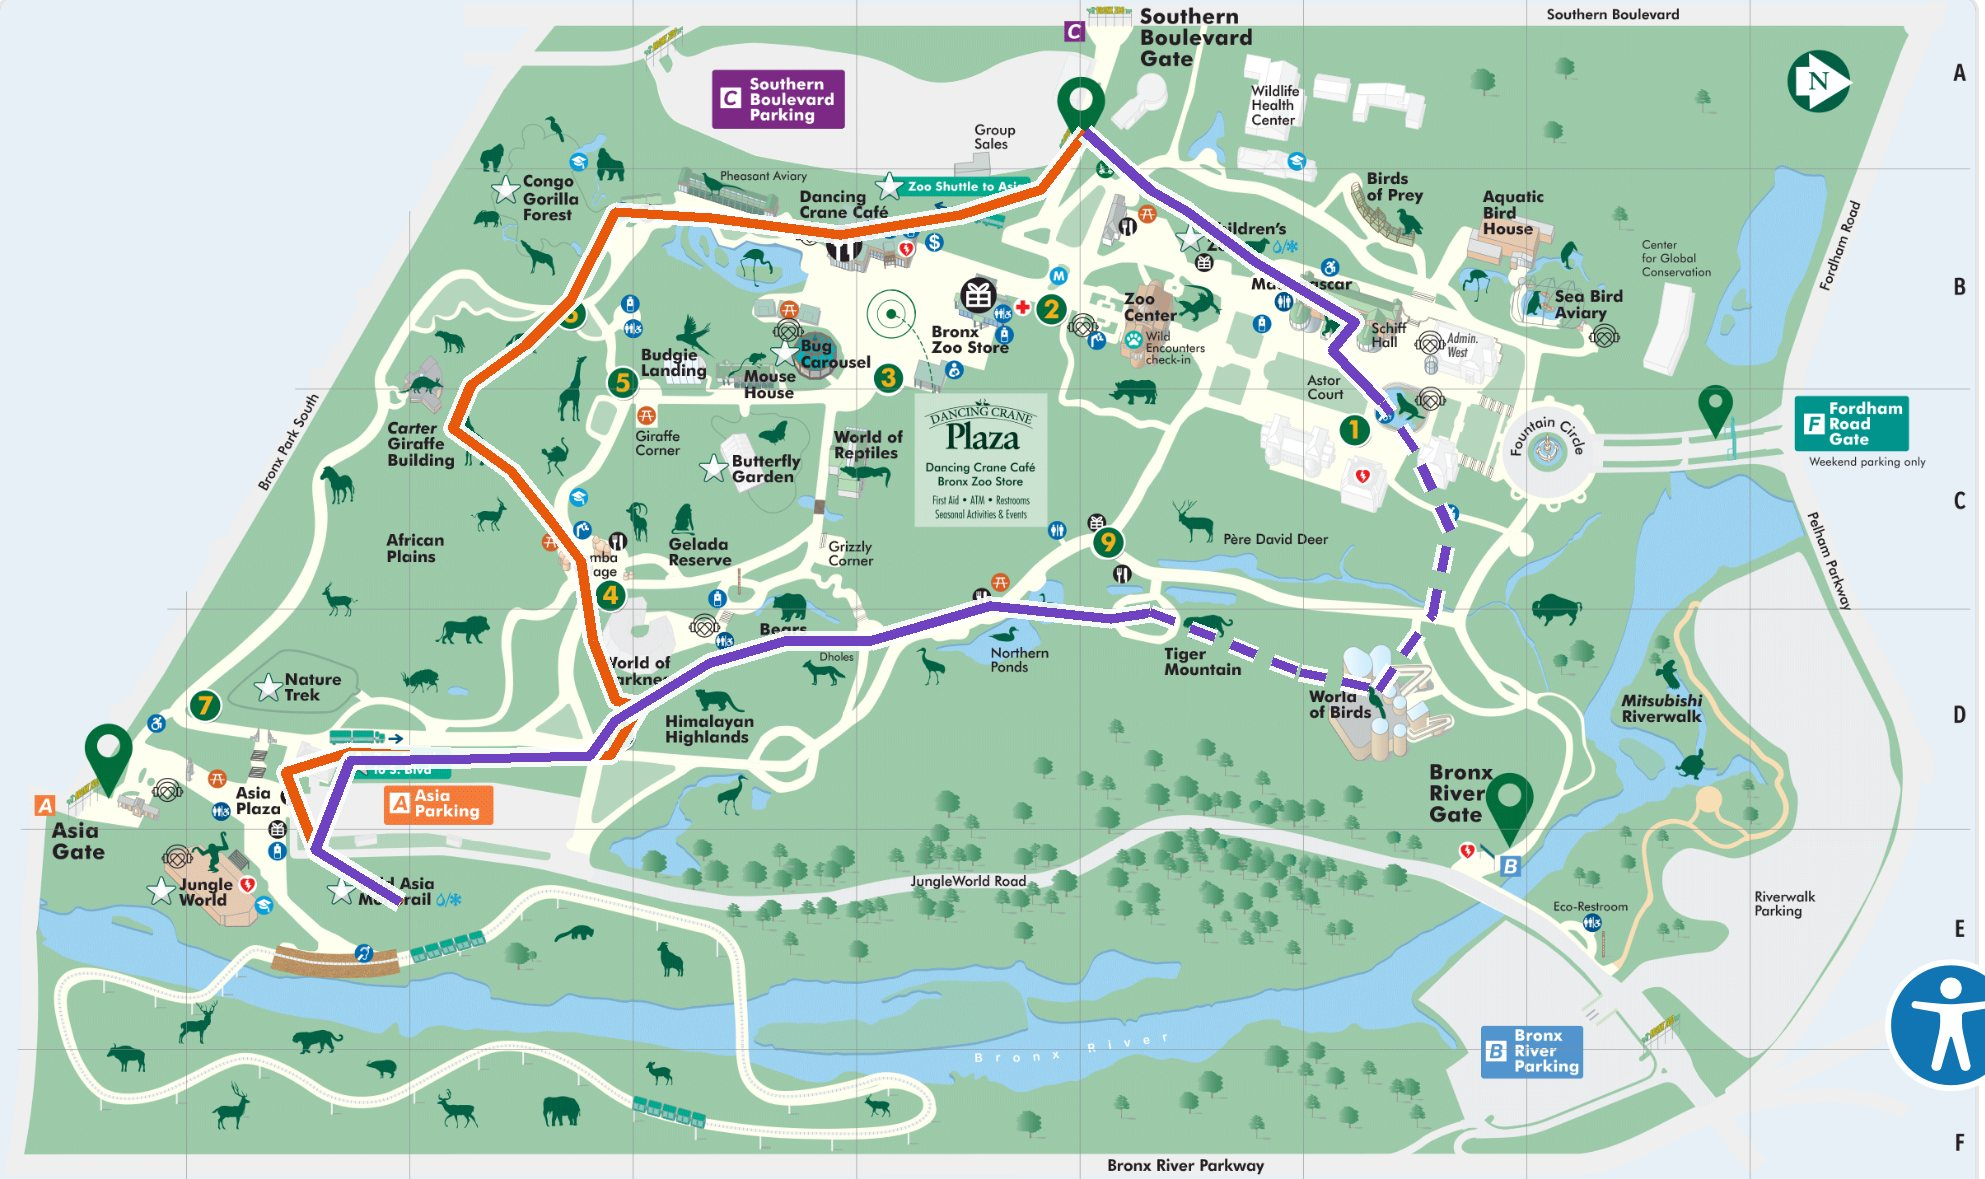
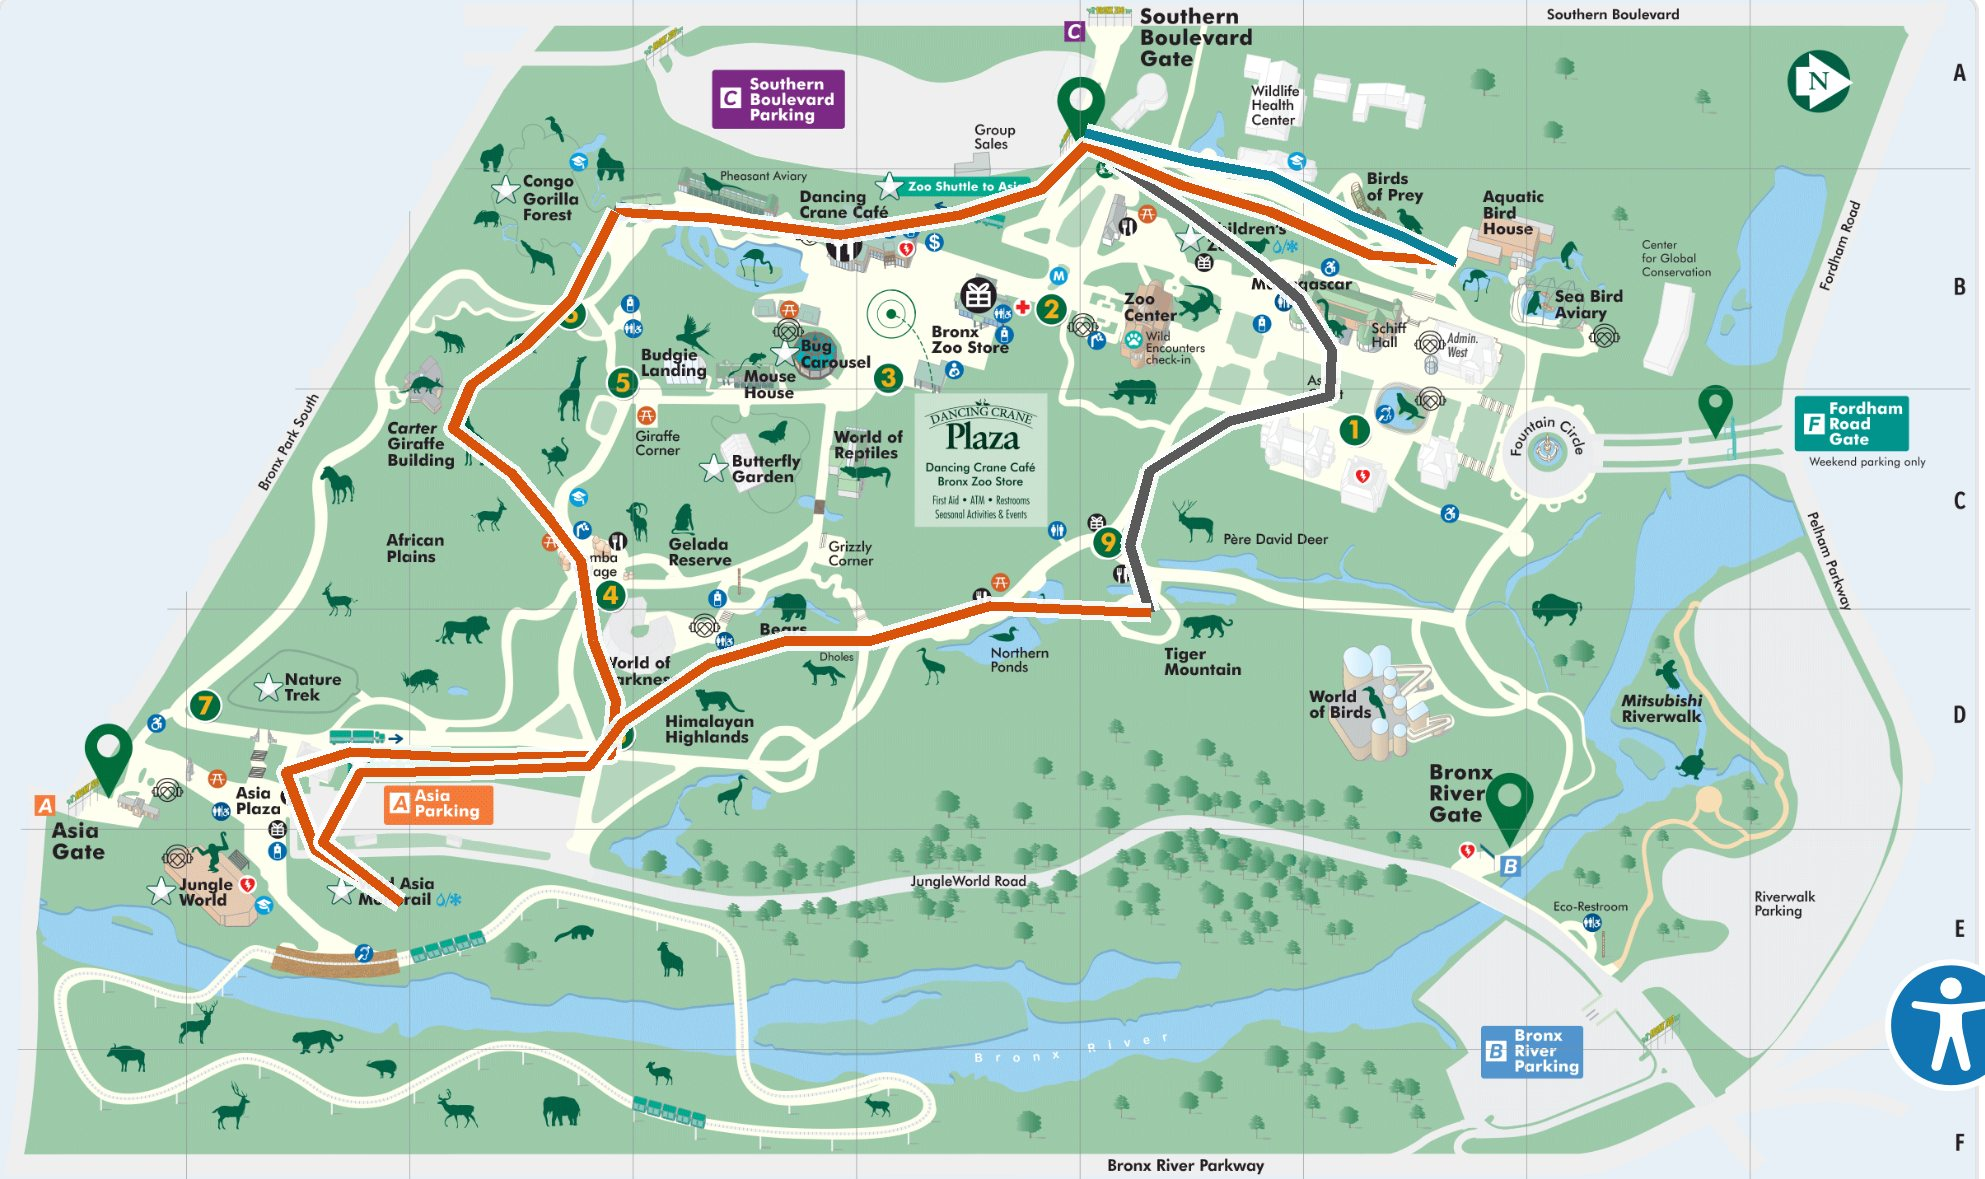
Add monorail and Boo at the Zoo schedule

diff --git a/index.html b/index.html
@@ -50,7 +50,7 @@ h2{font-size:20px;font-weight:600}
 .map{position:relative;width:100%;min-width:900px;aspect-ratio:1985/1179;background:#cfe3d3}
 .map img{position:absolute;inset:0;width:100%;height:100%;display:block;max-width:none}
 .pin{position:absolute;transform:translate(-50%,-50%);width:34px;height:34px;border-radius:50%;border:3px solid #fff;color:#fff;font:700 15px/1 "Atkinson Hyperlegible",system-ui,sans-serif;display:grid;place-items:center;cursor:pointer;box-shadow:0 1px 3px rgba(0,0,0,.35);transition:transform .15s ease}
-.pin.am{background:#D9530B}.pin.pm{background:#6F42C1}.pin.gate{background:#2A2F2C}
+.pin.am{background:#D9530B}.pin.pm,.pin.lunch{background:#6F42C1}.pin.bird{background:#0D809A}.pin.gate{background:#2A2F2C}
 .pin.done{opacity:.45}
 .pin:hover{transform:translate(-50%,-50%) scale(1.12)}
 .pin.active{transform:translate(-50%,-50%) scale(1.3);box-shadow:0 0 0 4px rgba(255,255,255,.9),0 0 0 7px #1F7AE0;z-index:2}
@@ -63,13 +63,14 @@ h2{font-size:20px;font-weight:600}
 .stop.active{border-color:var(--focus);box-shadow:0 0 0 2px var(--focus)}
 .stop.done .body{opacity:.55}
 .num{width:36px;height:36px;border-radius:50%;display:grid;place-items:center;color:#fff;font-weight:700;margin-top:2px}
-.num.am{background:#D9530B}.num.pm{background:#6F42C1}.num.gate{background:#2A2F2C}
+.num.am{background:#D9530B}.num.pm,.num.lunch{background:#6F42C1}.num.bird{background:#0D809A}.num.gate{background:#2A2F2C}
 .top{display:flex;flex-wrap:wrap;align-items:baseline;gap:4px 10px}
 .time{font-variant-numeric:tabular-nums;font-weight:700;color:var(--green)}
 .name{font-weight:700;font-size:17px}
 .tag{font-size:12px;letter-spacing:.04em;text-transform:uppercase;border-radius:6px;padding:2px 7px;background:var(--chip);color:var(--muted)}
 .tag.star{background:var(--starbg);color:var(--star)}
 .tag.opt{border:1px dashed var(--muted);background:none}
+.tag.bird{background:#DDF1F5;color:#0B6477}
 .note{margin:4px 0 0;color:var(--ink)}
 .tip{margin:4px 0 0;color:var(--muted);font-size:14px}
 .actions{display:flex;flex-wrap:wrap;gap:8px 14px;margin-top:8px;font-size:14px}
@@ -93,9 +94,9 @@ h2{font-size:20px;font-weight:600}
 <div class="wrap">
   <header>
     <h1>Bronx Zoo route, Saturday Oct 3</h1>
-    <p class="sub">One loop from the Southern Boulevard gate: big animals in the morning, picnic and monorail at midday, a stroller-nap stroll past the tigers, then Boo at the Zoo fun on the way out. Tap any pin or stop.</p>
+    <p class="sub">Birds for Kaia first while she's fresh, then gorillas, giraffes and lions, a picnic at Asia Plaza, the Wild Asia Monorail, and tigers on the nap walk back to the gate. Tap any pin or stop.</p>
     <div class="meta">
-      <span class="pill"><b>Open</b> 10:00 to 5:30 (exhibits close 5:00)</span>
+      <span class="pill"><b>Our visit</b> 10:00 to about 2:25</span>
       <span class="pill"><b>Park</b> Southern Blvd lot, $22</span>
       <span class="pill"><b>Group</b> 10 adults, 3 toddlers</span>
     </div>
@@ -104,15 +105,15 @@ h2{font-size:20px;font-weight:600}
   <section class="mapcard" aria-label="Route on the zoo map">
     <div class="maphead">
       <div class="legend">
-        <span><i class="sw" style="background:var(--am)"></i>Morning</span>
-        <span><i class="sw" style="background:var(--pm)"></i>Nap + afternoon</span>
-        <span><i class="sw dash"></i>Optional</span>
+        <span><i class="sw" style="background:#0D809A"></i>Birds for Kaia</span>
+        <span><i class="sw" style="background:#D9530B"></i>Big animals</span>
+        <span><i class="sw" style="background:#5A5A5A"></i>Nap walk out</span>
       </div>
       <span class="hint" id="hint">Drag to pan the map</span>
     </div>
     <div class="scroller" id="scroller">
       <div class="map" id="map">
-        <img src="route-map.jpg" alt="Bronx Zoo map with the day's route drawn in orange and purple">
+        <img src="route-map.jpg" alt="Bronx Zoo map with the day's route drawn in teal, orange and gray">
       </div>
     </div>
   </section>
@@ -136,21 +137,34 @@ h2{font-size:20px;font-weight:600}
         <h2>Star Attractions</h2>
         <p class="small">Free with a "Bronx Zoo Admission" ticket, $7 per person each with "Limited Admission." Under 3 is free.</p>
         <ul>
-          <li>On the route: gorillas, monorail, Children's Zoo</li>
-          <li>Nearby if wanted: JungleWorld, Butterfly Garden, Bug Carousel, Zoo Shuttle</li>
+          <li>On the route: Congo Gorilla Forest and the Wild Asia Monorail</li>
+          <li>Budgie Landing (feed budgies from a seed stick) is extra with every ticket: $5 per person, April to October, go before 3pm</li>
         </ul>
       </div>
       <div class="panel">
-        <h2>Boo at the Zoo on the route</h2>
+        <h2>If you need to cut it short</h2>
         <ul>
-          <li>Crafts and puppet show (11:30) at Giraffe Corner</li>
-          <li>Candy trail on the Rhino Trail, 11 to 2</li>
-          <li>Costume parade 3:15, dance party 3:30 at Astor Court</li>
+          <li>Out of steam after the monorail? Take the Zoo Shuttle from Asia Plaza back to Southern Blvd (Star Attraction) and skip the tigers. Out by about 2:00.</li>
+          <li>Long gorilla line (lines close past a 30-minute wait)? Go on to the giraffes and lions; the monorail covers more big animals.</li>
+          <li>Extra energy: Budgie Landing near Mouse House, $5 per person, feed budgies from a seed stick.</li>
+        </ul>
+        <p class="small">Not on this route: Himalayan Highlands, Madagascar!, Children's Zoo, World of Birds.</p>
+      </div>
+      <div class="panel">
+        <h2>Boo at the Zoo today</h2>
+        <p class="small">Free with admission, 11:00 to 4:00 unless noted. Check bronxzoo.com/today for changes.</p>
+        <ul>
+          <li><b>Astor Court</b> (on our walk out, ~2:05): costume parade 12, 1, <b>2:00</b>, 3:15; dance party with bubbles 15 min after each. Carnival games, lawn games, mural. Face painting ages 3+.</li>
+          <li><b>Giraffe Corner</b> (we pass ~11:40): Halloween crafts, mystery touch wall. Puppet show 11:30, 12:30, 2:30, 3:30.</li>
+          <li><b>Grizzly Corner</b>, near the Bears: magic show 11, 12, 2, 3, 4; spooky stories 11:30, 12:30, 2:30, 3:30.</li>
+          <li><b>Candy Trail</b>, Rhino Trail, 11 to 2. Kids only, one turn per family.</li>
+          <li>Pumpkin Garden (Rhino Garden), carving demos at Dancing Crane (speed carving 11:30, 2:30), hay maze on the Butterfly Patio.</li>
+          <li>Keeper chats: Tigers 10:30, Reptiles 11, Bears 1, Birds of Prey 2.</li>
         </ul>
       </div>
       <div class="panel">
         <h2>If the group splits</h2>
-        <p>Meet at the Astor Court sea lion pool. Early exits head north to Gate C.</p>
+        <p>Meet at the Astor Court sea lion pool. Early exits head north to Gate C, 10 to 15 minutes from most stops.</p>
         <div class="btnrow"><button class="btn ghost" id="reset" type="button">Clear checkmarks</button></div>
       </div>
     </aside>
@@ -159,26 +173,23 @@ h2{font-size:20px;font-weight:600}
 
 <script>
 const STOPS = [
-  {n:1,x:54.66,y:11.2,k:"gate",time:"9:30",name:"Gate C and parking",tag:"Start and finish",note:"Park in the Southern Boulevard lot and be at the gate before the 10:00 opening. Back here around 4:50.",tip:"Bring your own strollers; rentals are $14.70 single.",q:"Bronx Zoo Southern Boulevard Gate"},
-  {n:2,x:30.98,y:17.98,k:"am",time:"10:00",name:"Congo Gorilla Forest",star:true,note:"Gorillas, mandrills and okapi. Go first, before the lines build.",tip:"Strollers must be parked outside; carry the kids in. About 45 minutes.",q:"Congo Gorilla Forest Bronx Zoo"},
-  {n:3,x:22.77,y:36.3,k:"am",time:"10:50",name:"Carter Giraffe Building",note:"Giraffes up close, indoors and out. Giraffe Corner has Halloween crafts from 11.",tip:"About 20 minutes. Warm spot if it's chilly.",q:"Carter Giraffe Building Bronx Zoo"},
-  {n:4,x:29.22,y:47.5,k:"am",time:"11:15",name:"African Plains",note:"Lions, zebras and gazelles across open savanna.",tip:"Restrooms at Somba Village right here. About 25 minutes.",q:"African Plains Bronx Zoo"},
-  {n:5,x:32.24,y:59.8,k:"am",time:"11:40",name:"Himalayan Highlands",note:"Snow leopards and red pandas.",tip:"About 20 minutes, then 10 minutes to lunch.",q:"Himalayan Highlands Bronx Zoo"},
-  {n:6,x:14.36,y:65.48,k:"am",time:"12:10",name:"Picnic lunch at Asia Plaza",note:"Picnic tables and restrooms nearby. Toddler lunch around 12 to 12:30.",tip:"About 40 minutes.",q:"Asia Plaza Bronx Zoo"},
-  {n:7,x:20.15,y:76.51,k:"am",time:"12:50",name:"Wild Asia Monorail",star:true,note:"The only way to see Patty, the zoo's last elephant, plus rhinos and deer. She may be moved to a sanctuary, so no guarantee.",tip:"Park strollers; kids ride on laps. About 25 minutes.",q:"Wild Asia Monorail Bronx Zoo"},
-  {n:8,x:57.93,y:51.91,k:"pm",time:"1:50",name:"Tiger Mountain",note:"Nap stroll from Asia Plaza past the Bears, about 15 minutes. Glass viewing right up against the tigers.",tip:"Kaia naps 1:30 to 3:30 in the stroller. Take turns if kids are asleep.",q:"Tiger Mountain Bronx Zoo"},
-  {n:9,x:69.42,y:58.52,k:"pm",time:"2:20",name:"World of Birds",opt:true,note:"Quiet indoor stop next to Tiger Mountain, or a bench break instead.",tip:"Skip if kids are fading; head straight to Astor Court.",q:"World of Birds Bronx Zoo"},
-  {n:10,x:69.62,y:34.1,k:"pm",time:"3:00",name:"Astor Court",note:"Sea lion pool plus Boo at the Zoo: costume parade 3:15, dance party with bubbles 3:30.",tip:"Group meeting point if anyone splits off.",q:"Astor Court Bronx Zoo"},
-  {n:11,x:68.26,y:27.31,k:"pm",time:"3:45",name:"Madagascar!",note:"Lemurs, including babies, and Nile crocodiles.",tip:"About 25 minutes.",q:"Madagascar exhibit Bronx Zoo"},
-  {n:12,x:59.85,y:17.98,k:"pm",time:"4:15",name:"Children's Zoo",star:true,note:"Toddler-height animals to end the day, a short walk from Gate C.",tip:"Exhibits close at 5:00. Exit by 4:50.",q:"Children's Zoo Bronx Zoo"}
+  {n:1,x:54.66,y:11.2,k:"gate",time:"9:30",name:"Gate C and parking",tag:"Start and finish",note:"Park in the Southern Boulevard lot ($22) by 9:30 and be at the gate for the 10:00 opening. Back here around 2:25.",tip:"Kaia's nap can carry on in the car.",q:"Bronx Zoo Southern Boulevard Gate"},
+  {n:2,x:68.01,y:18.24,k:"bird",time:"10:00",name:"Birds of Prey",bird:true,note:"Snowy owls, eagles, condors and vultures, just inside the gate.",tip:"About 15 minutes, outdoors.",q:"Birds of Prey Bronx Zoo"},
+  {n:3,x:73.3,y:22.22,k:"bird",time:"10:20",name:"Aquatic Bird House and Sea Bird Aviary",bird:true,note:"Kaia's stop: swimming penguins, tufted puffins, Caribbean flamingos and kookaburras, indoors and out.",tip:"About 25 minutes. Then about 15 minutes' walk west past the gate to the gorillas.",q:"Aquatic Bird House Bronx Zoo"},
+  {n:4,x:30.98,y:17.98,k:"am",time:"11:00",name:"Congo Gorilla Forest",star:true,note:"Gorillas, mandrills and okapi. You pass the Pheasant Aviary on the way.",tip:"Strollers parked outside; carry the kids in. About 35 minutes.",q:"Congo Gorilla Forest Bronx Zoo"},
+  {n:5,x:22.77,y:36.3,k:"am",time:"11:40",name:"Carter Giraffe Building",note:"Giraffes up close, indoors and out.",tip:"About 15 minutes.",q:"Carter Giraffe Building Bronx Zoo"},
+  {n:6,x:25.69,y:40.03,k:"am",time:"11:55",name:"African Plains",note:"Lions, zebras and gazelles along the path south.",tip:"About 15 minutes, then about 10 minutes' walk to lunch.",q:"African Plains Bronx Zoo"},
+  {n:7,x:14.36,y:65.48,k:"lunch",time:"12:20",name:"Picnic lunch at Asia Plaza",note:"Picnic tables and restrooms nearby. Toddler lunch lands at 12:20.",tip:"About 30 minutes.",q:"Asia Plaza Bronx Zoo"},
+  {n:8,x:20.15,y:76.51,k:"am",time:"12:55",name:"Wild Asia Monorail",star:true,note:"A ride over Asian forest and grassland: rhinos, deer and Patty, the zoo's last elephant. No news of her being moved, but she isn't guaranteed to be out.",tip:"Strollers parked at the platform; kids ride on laps. Allow about 30 minutes with the line.",q:"Wild Asia Monorail Bronx Zoo"},
+  {n:9,x:57.93,y:51.91,k:"am",time:"1:50",name:"Tiger Mountain",note:"Nap stroll from Asia Plaza past the Bears (about 20 minutes), then glass viewing right up against the tigers.",tip:"Kaia likely asleep; adults take turns. Then about 20 minutes back to Gate C.",q:"Tiger Mountain Bronx Zoo"}
 ];
 
 const map = document.getElementById('map');
 const list = document.getElementById('list');
 const scroller = document.getElementById('scroller');
 let done = {};
-try { done = JSON.parse(localStorage.getItem('zooDone') || '{}') || {}; } catch (e) { done = {}; }
-function save(){ try { localStorage.setItem('zooDone', JSON.stringify(done)); } catch (e) {} }
+try { done = JSON.parse(localStorage.getItem('zooDone5') || '{}') || {}; } catch (e) { done = {}; }
+function save(){ try { localStorage.setItem('zooDone5', JSON.stringify(done)); } catch (e) {} }
 
 STOPS.forEach(s => {
   const pin = document.createElement('button');
@@ -199,6 +210,7 @@ STOPS.forEach(s => {
   const tags = [];
   if (s.star) tags.push('<span class="tag star">Star Attraction</span>');
   if (s.opt) tags.push('<span class="tag opt">Optional</span>');
+  if (s.bird) tags.push('<span class="tag bird">For Kaia</span>');
   if (s.tag) tags.push('<span class="tag">' + s.tag + '</span>');
   li.innerHTML =
     '<div class="num ' + s.k + '">' + s.n + '</div>' +
